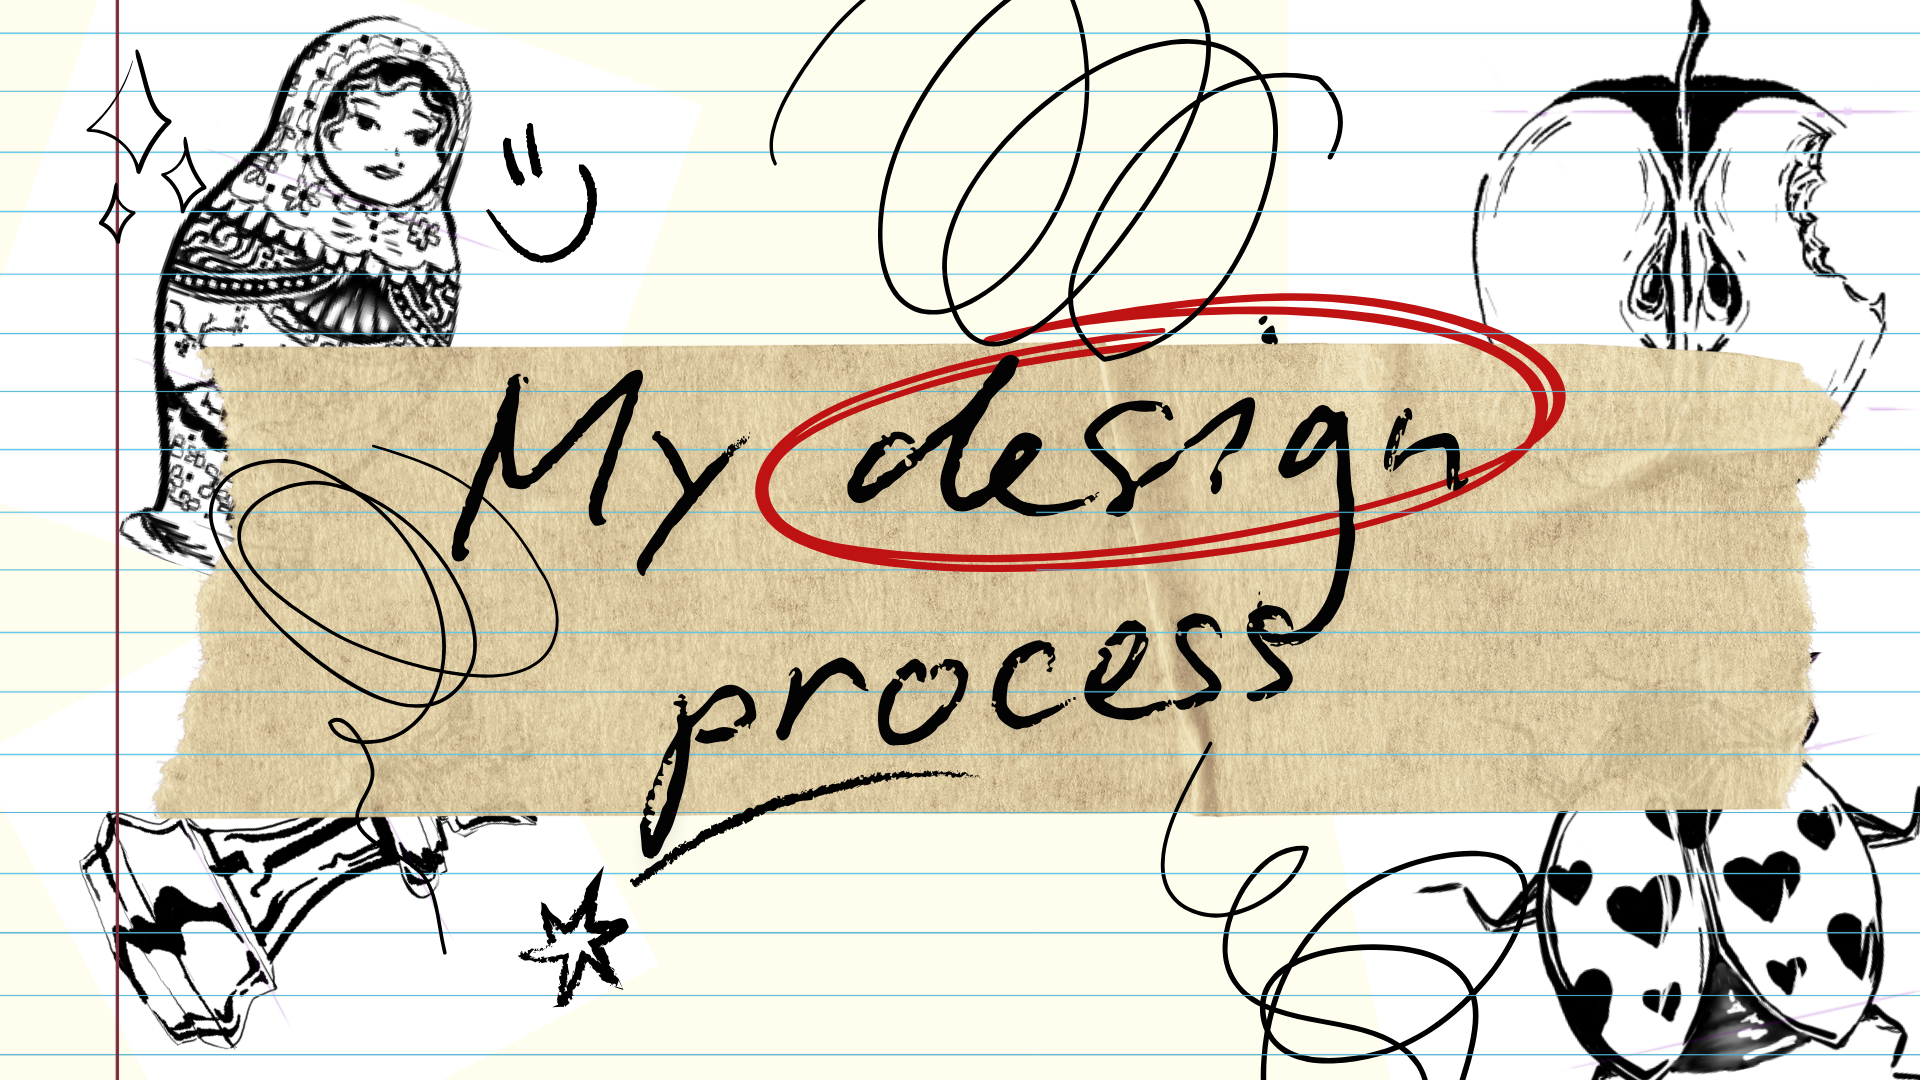
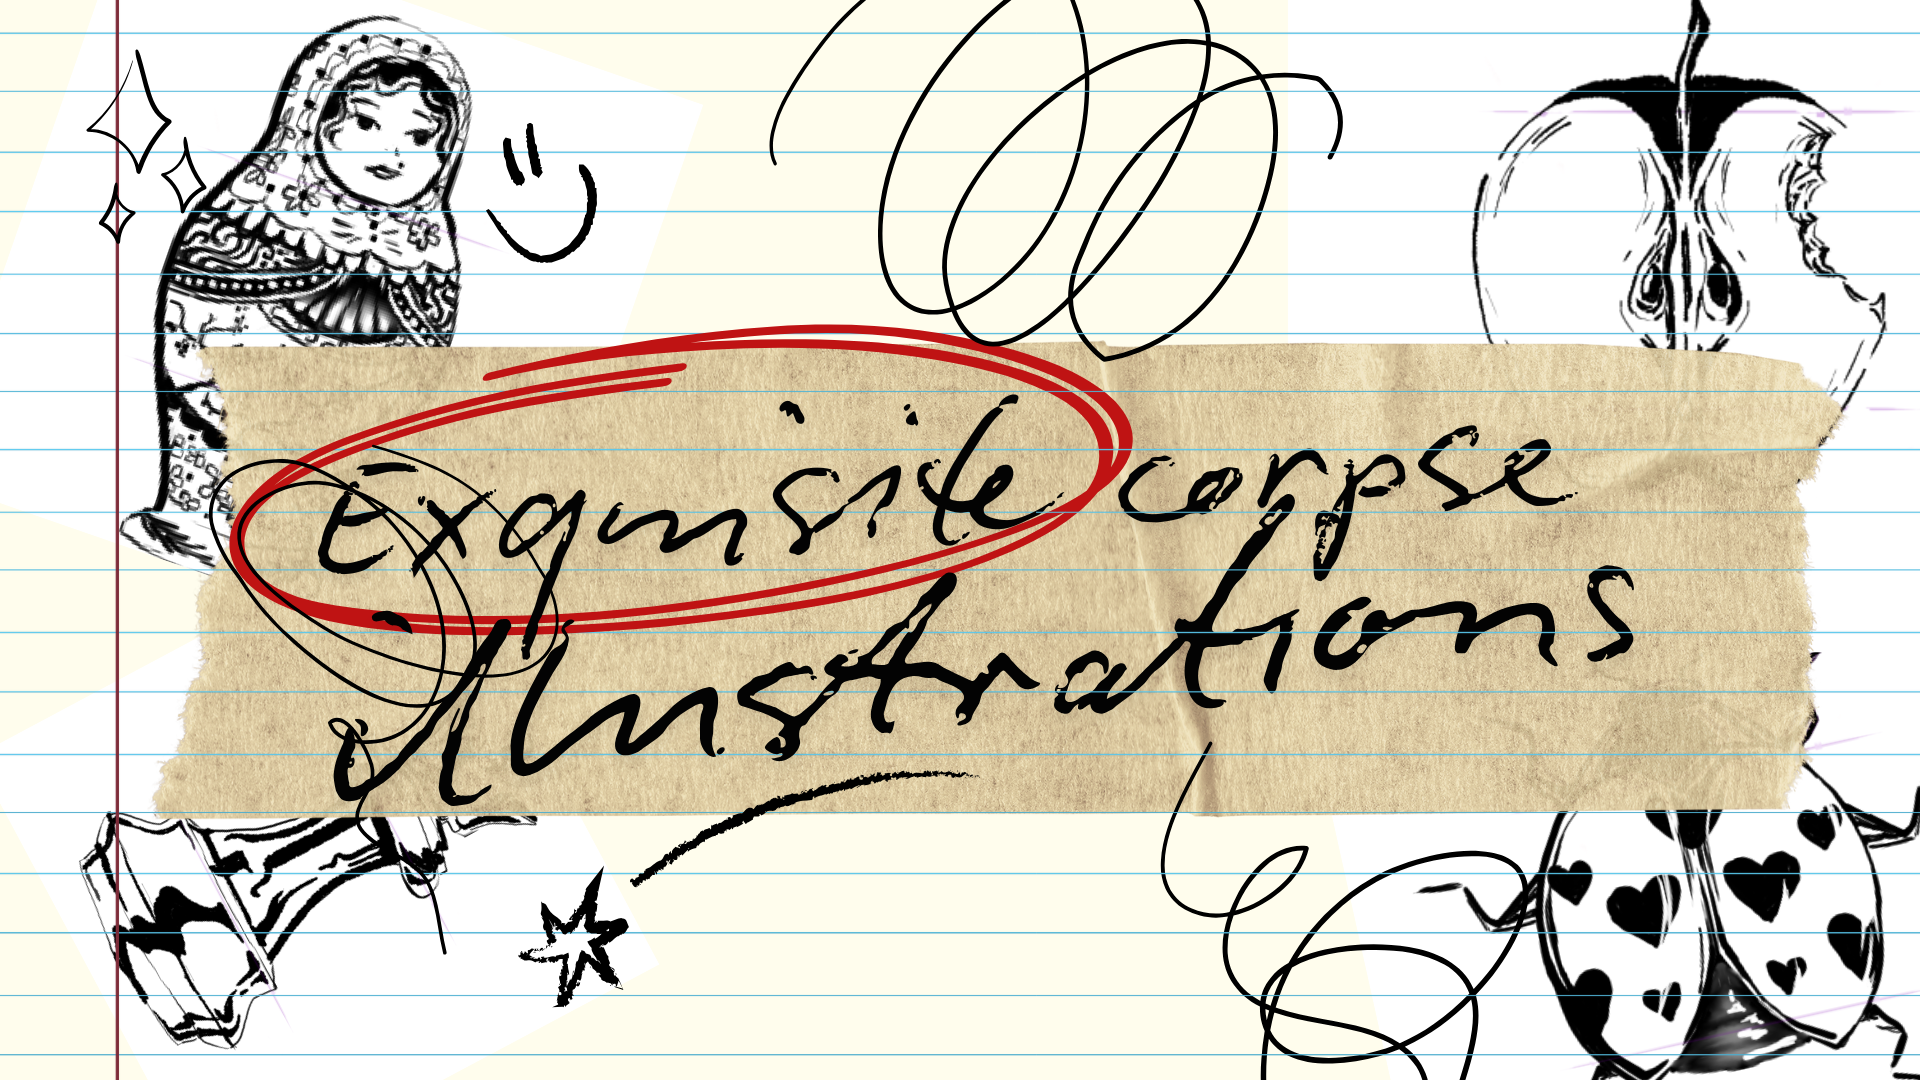
my work filter

Changed region(s): [[0.125, 0.2444, 0.875, 0.7944], [0.0938, 0.4889, 0.125, 0.5194]]

diff --git a/src/app/page.js b/src/app/page.js
@@ -74,11 +74,7 @@ export default function Home() {
             description: "A speculative design project for a fictional client",
             categories: ["UI/UX", "Graphic Design", "Brand Dev"],
             path: "/projects/nourish",
-            icon: <svg xmlns="http://www.w3.org/2000/svg" width="30" height="30" fill="#dc2626"
-                       className="bi bi-suit-diamond-fill" viewBox="0 0 16 16">
-                <path
-                    d="M2.45 7.4 7.2 1.067a1 1 0 0 1 1.6 0L13.55 7.4a1 1 0 0 1 0 1.2L8.8 14.933a1 1 0 0 1-1.6 0L2.45 8.6a1 1 0 0 1 0-1.2"/>
-            </svg>
+
         },
         {
             image: [
@@ -88,11 +84,7 @@ export default function Home() {
             description: "Custom illustrations for a personalized Unmatched Card Deck",
             categories: ["Illustration", "Digital Art"],
             path: "/projects/unmatcheddeck",
-            icon: <svg xmlns="http://www.w3.org/2000/svg" width="30" height="30" fill="currentColor"
-                       className="bi bi-suit-spade-fill" viewBox="0 0 16 16">
-                <path
-                    d="M7.184 11.246A3.5 3.5 0 0 1 1 9c0-1.602 1.14-2.633 2.66-4.008C4.986 3.792 6.602 2.33 8 0c1.398 2.33 3.014 3.792 4.34 4.992C13.86 6.367 15 7.398 15 9a3.5 3.5 0 0 1-6.184 2.246 20 20 0 0 0 1.582 2.907c.231.35-.02.847-.438.847H6.04c-.419 0-.67-.497-.438-.847a20 20 0 0 0 1.582-2.907"/>
-            </svg>
+
         },
         {
             image: [
@@ -103,6 +95,15 @@ export default function Home() {
             categories: ["UI/UX",],
             path: "/projects/profileTree",
         },
+        // {
+        //     image: [
+        //         "/images/illustrations/cover.png",
+        //     ],
+        //     title: "Exquisi-Corpse Illustrations",
+        //     description: "I made these illustrations for the Exquiste-corpse component on the process page!",
+        //     categories: ["Illustration", "Digital Art",],
+        //     path: "/projects/profileTree",
+        // },
     ];
 
     const filteredProjects =

diff --git a/src/app/components/Process.jsx b/src/app/components/Process.jsx
@@ -81,9 +81,9 @@ export default function Process() {
                     <ECorpseComp imageArray={heads} index={indices[0]}/>
                     <ECorpseComp imageArray={body} index={indices[1]}/>
                     <ECorpseComp imageArray={feet} index={indices[2]}/>
-                    <div className={"w-full text-center text-gray-400"}>Psst...I drew this. Check it on the project
-                        page
-                    </div>
+                    {/*<div className={"w-full text-center text-gray-400"}>Psst...I drew this. Check it on the project*/}
+                    {/*    page*/}
+                    {/*</div>*/}
                 </div>
                 <div className={"m-4 md:w-1/2"}>
                     <div>
